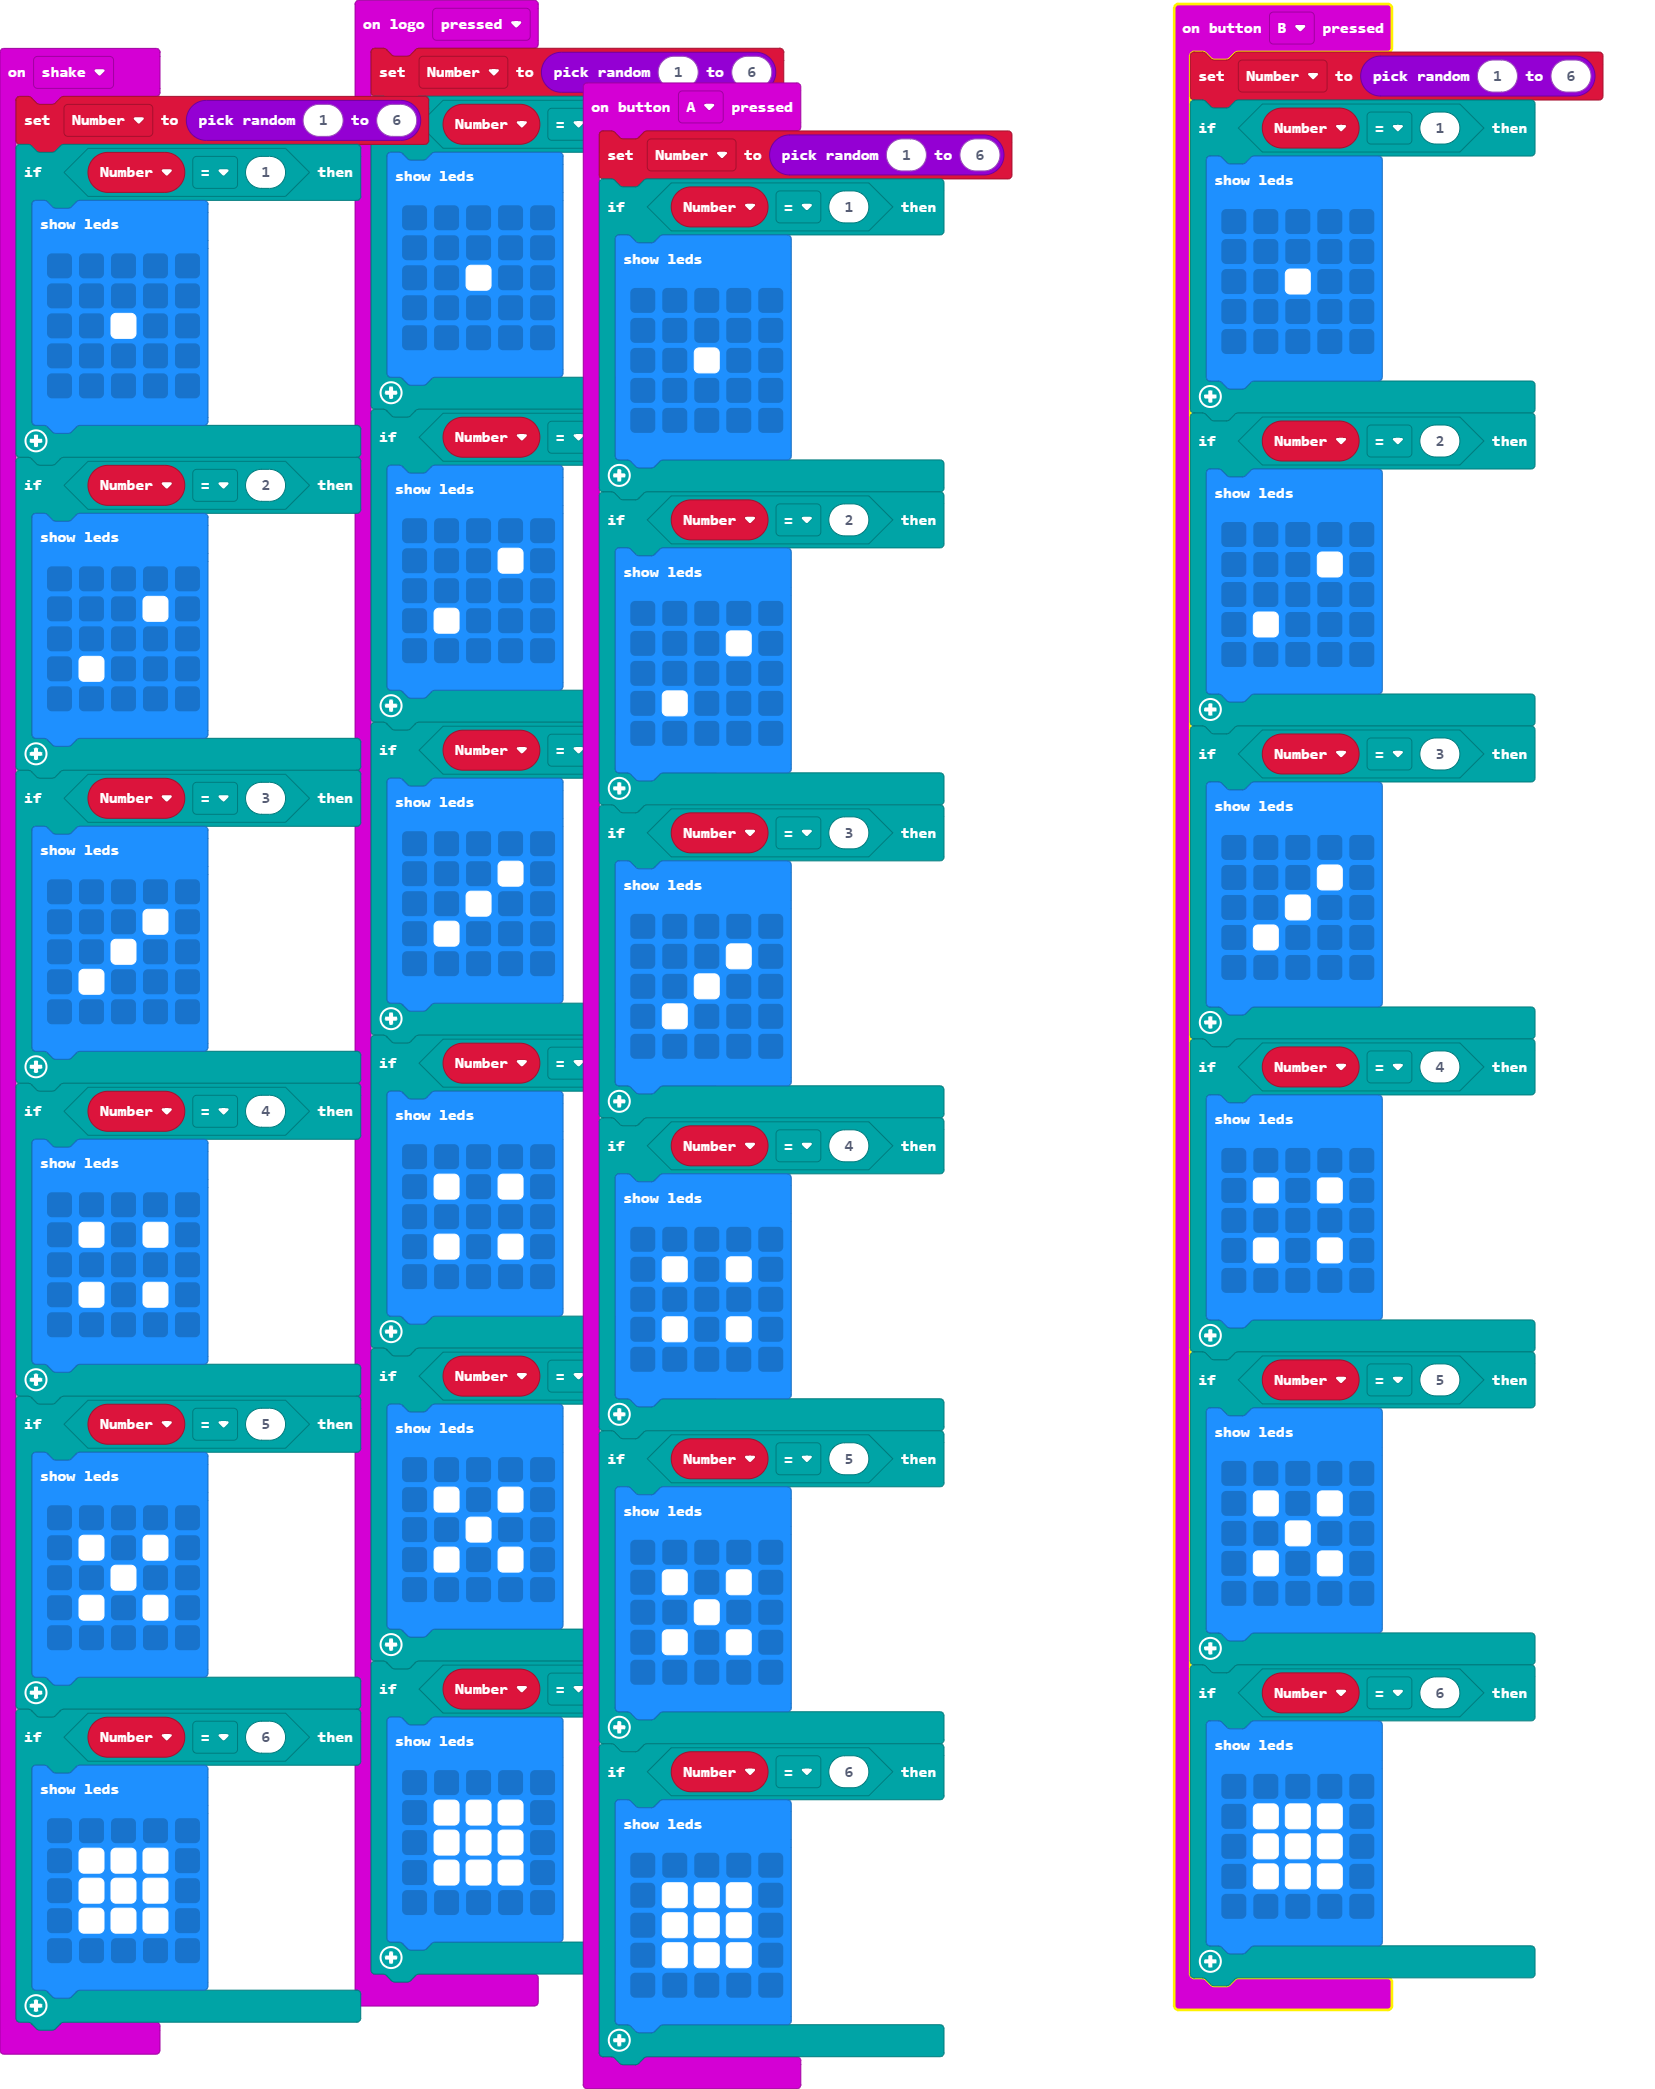
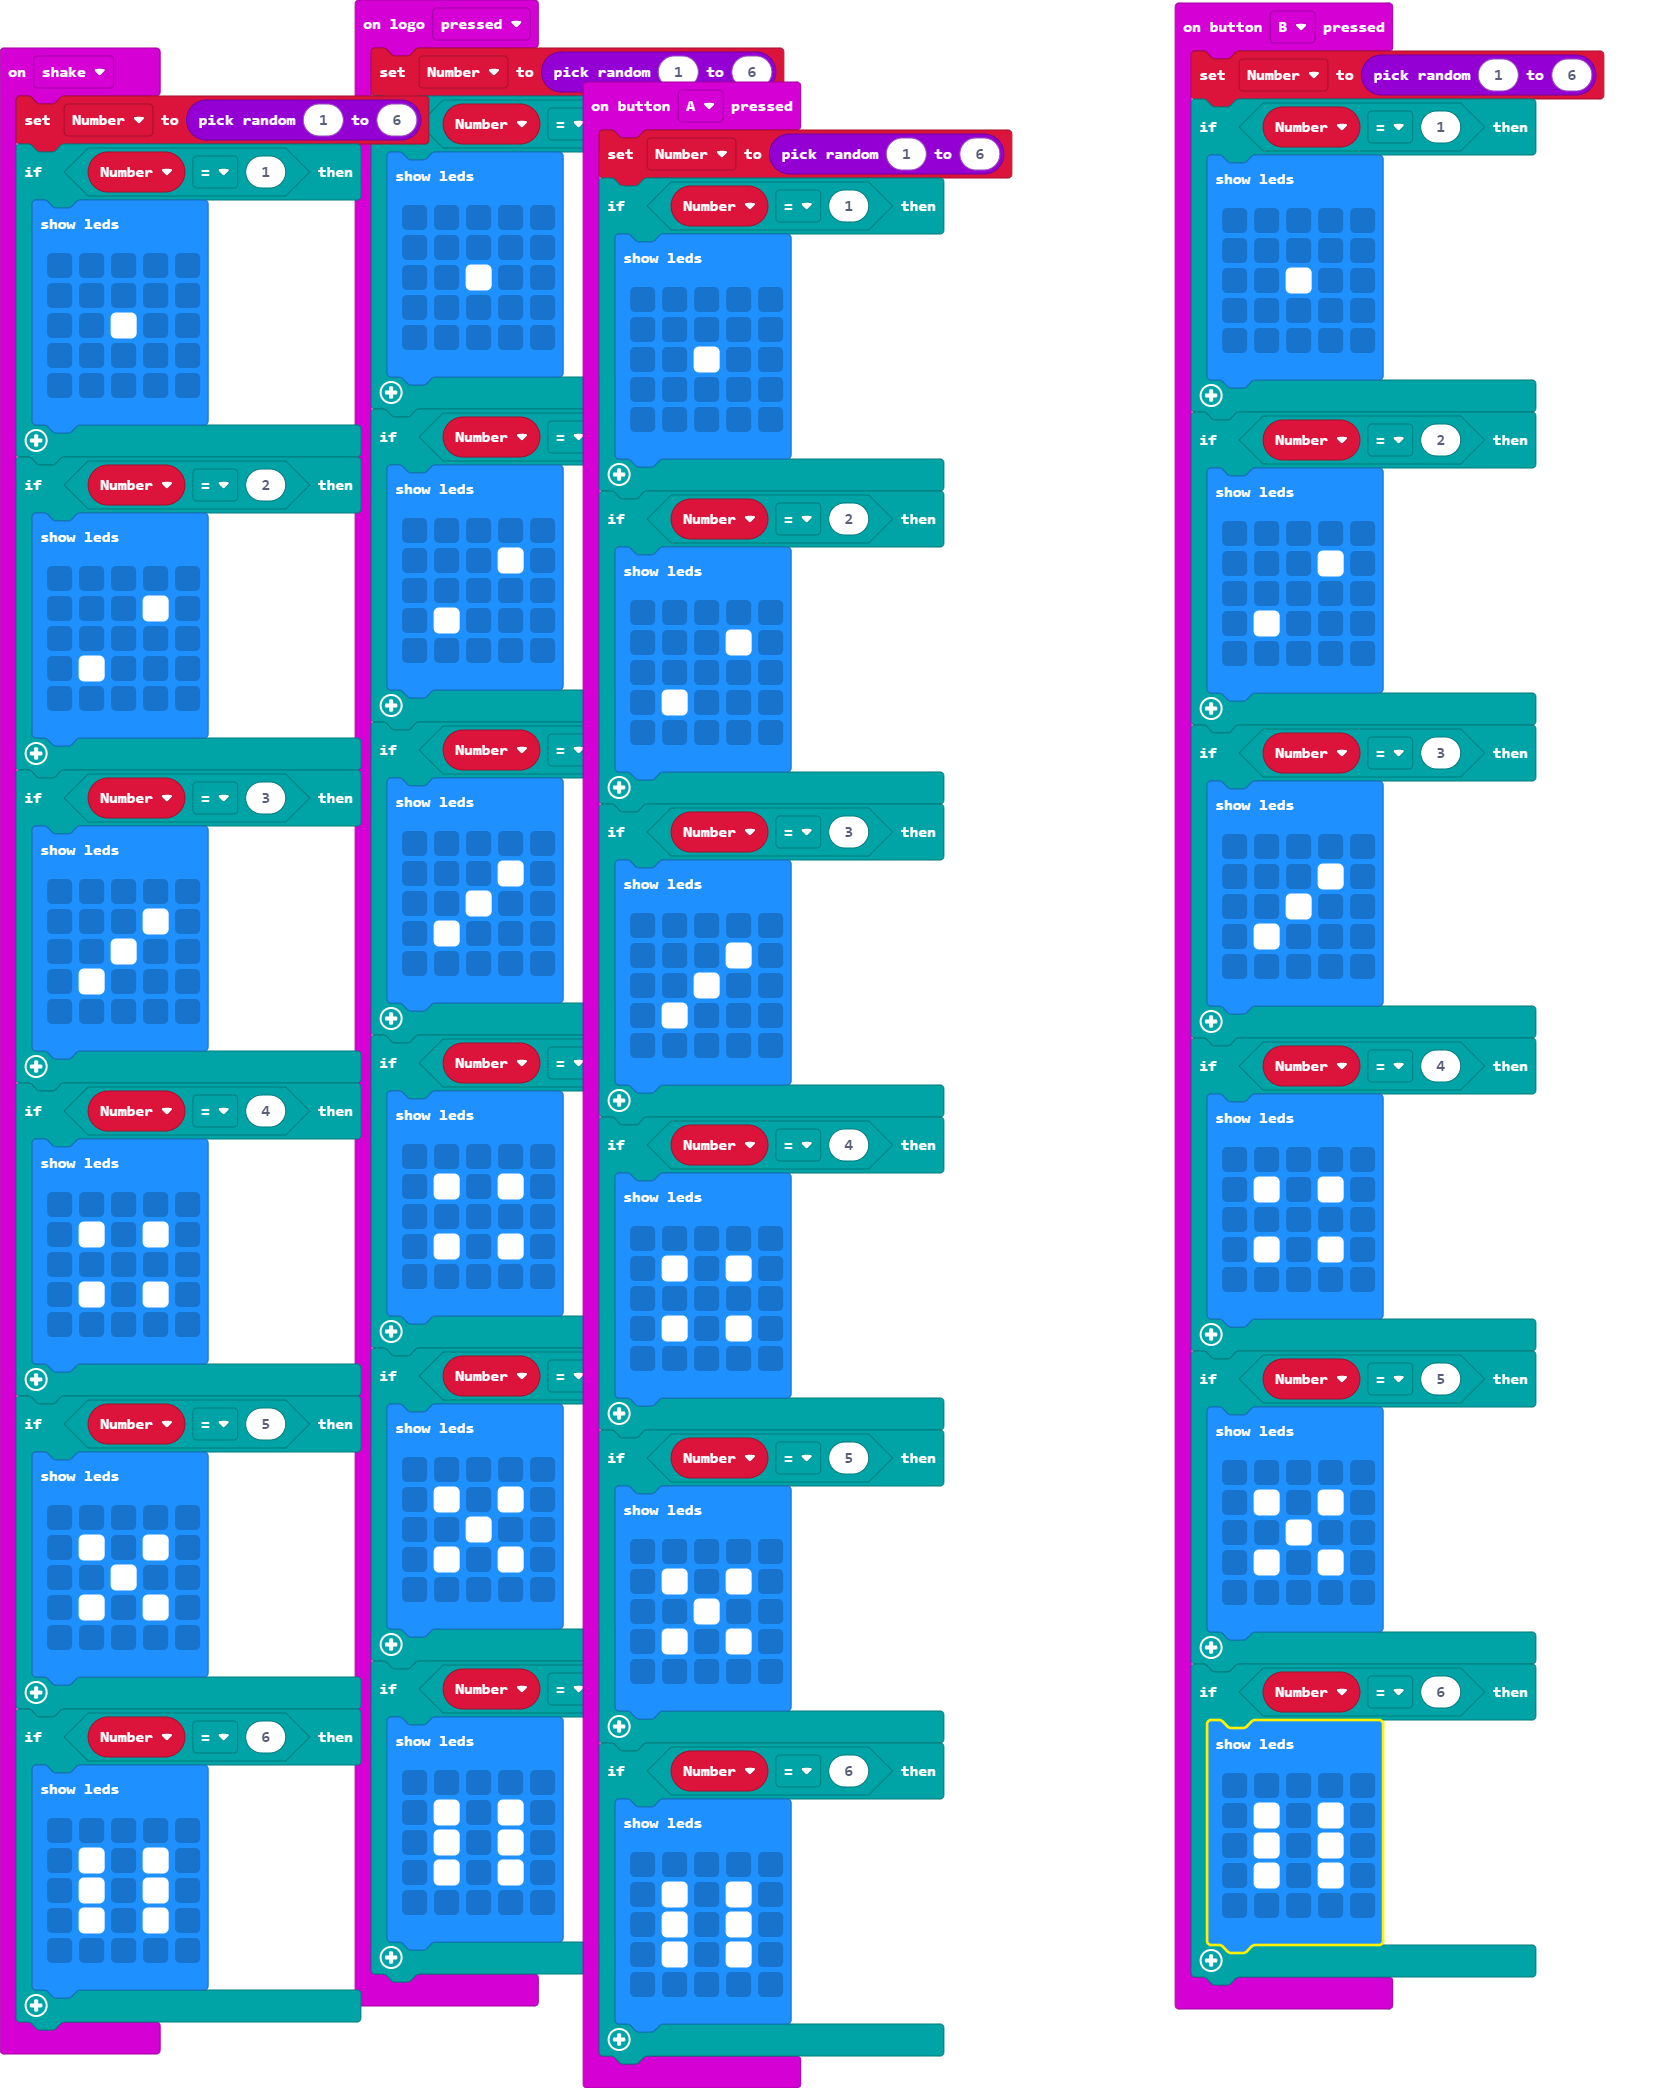
Update main.blocks, main.ts

diff --git a/main.ts b/main.ts
@@ -49,9 +49,9 @@ input.onButtonPressed(Button.A, function () {
     if (Number2 == 6) {
         basic.showLeds(`
             . . . . .
-            . # # # .
-            . # # # .
-            . # # # .
+            . # . # .
+            . # . # .
+            . # . # .
             . . . . .
             `)
     }
@@ -106,9 +106,9 @@ input.onButtonPressed(Button.B, function () {
     if (Number2 == 6) {
         basic.showLeds(`
             . . . . .
-            . # # # .
-            . # # # .
-            . # # # .
+            . # . # .
+            . # . # .
+            . # . # .
             . . . . .
             `)
     }
@@ -163,9 +163,9 @@ input.onGesture(Gesture.Shake, function () {
     if (Number2 == 6) {
         basic.showLeds(`
             . . . . .
-            . # # # .
-            . # # # .
-            . # # # .
+            . # . # .
+            . # . # .
+            . # . # .
             . . . . .
             `)
     }
@@ -220,9 +220,9 @@ input.onLogoEvent(TouchButtonEvent.Pressed, function () {
     if (Number2 == 6) {
         basic.showLeds(`
             . . . . .
-            . # # # .
-            . # # # .
-            . # # # .
+            . # . # .
+            . # . # .
+            . # . # .
             . . . . .
             `)
     }
